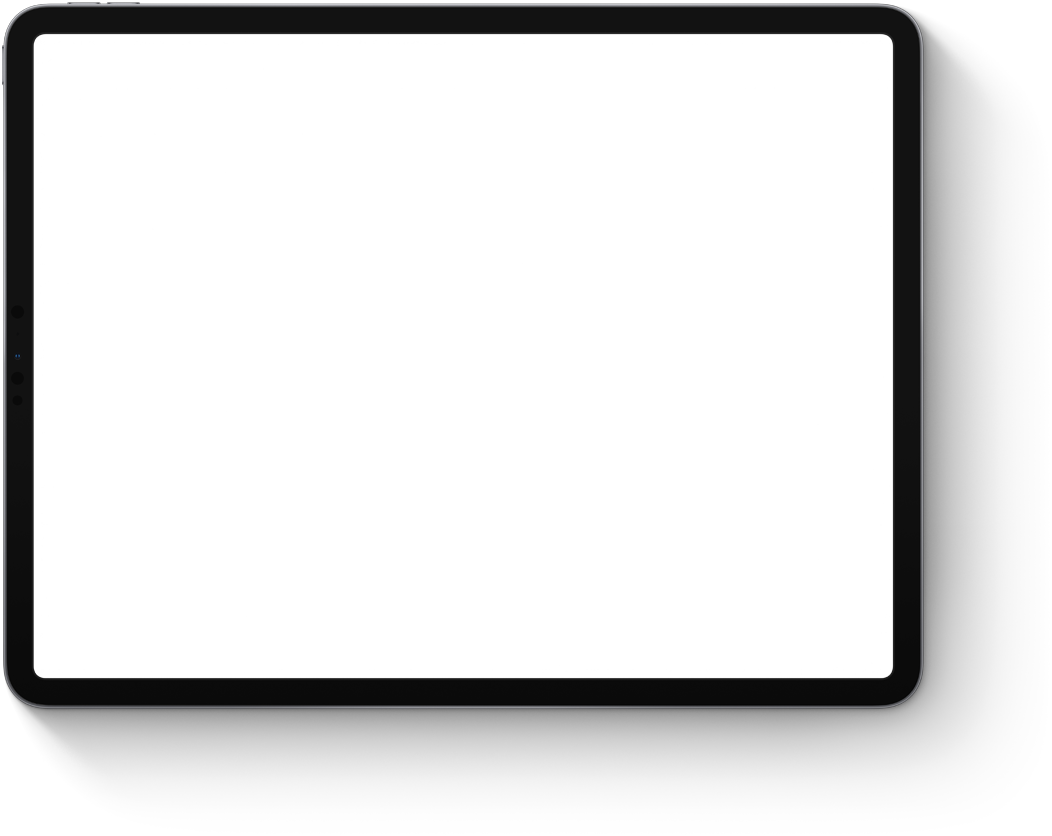
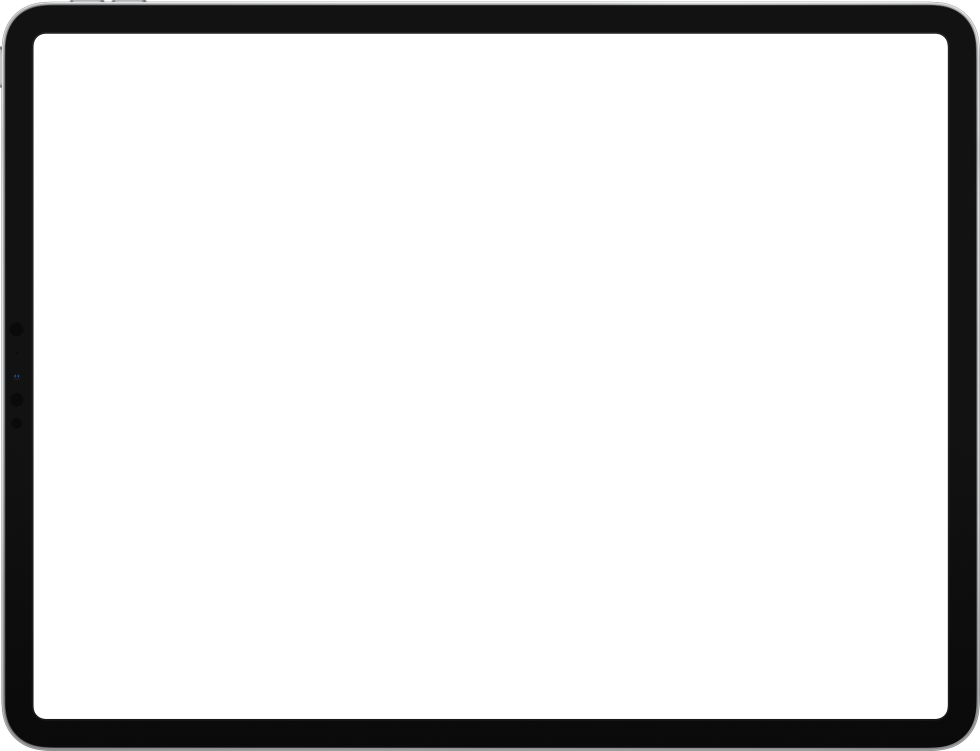
"

Changed region(s): [[0.0, 0.0, 1.0, 1.0]]

diff --git a/spaceui/page.css b/spaceui/page.css
@@ -19,15 +19,11 @@
     position: relative;
 }
 .pad img {
-	position: absolute;
-	top: 0;
-	left: 0;
+    margin: 0;
 }
 .pad .shot {
+    position: absolute;
 	width: 93%;
     top: 3.5%;
     left: 3.5%;
-}
-.pad .hardware {
-	width: 110%;
 }
